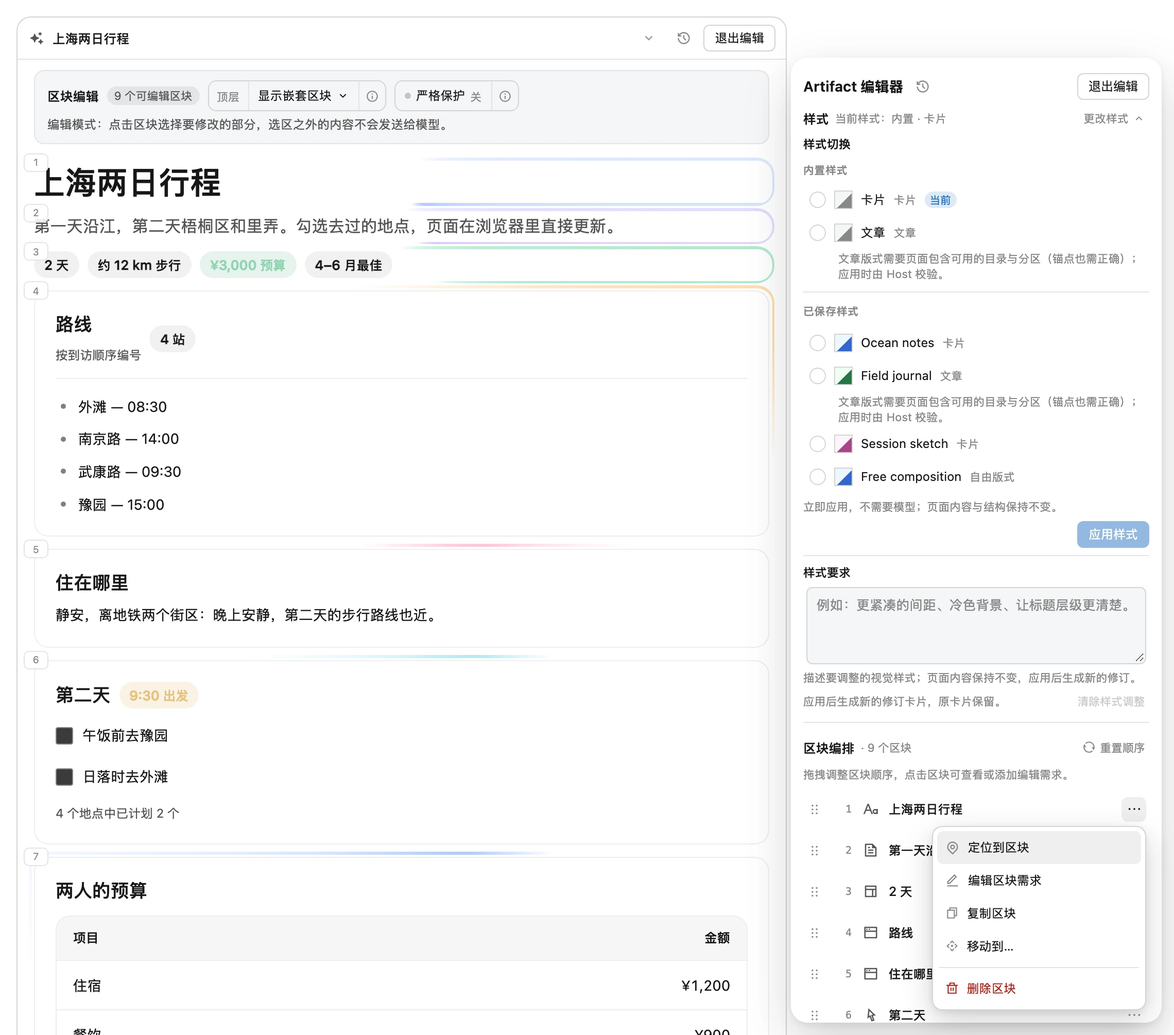
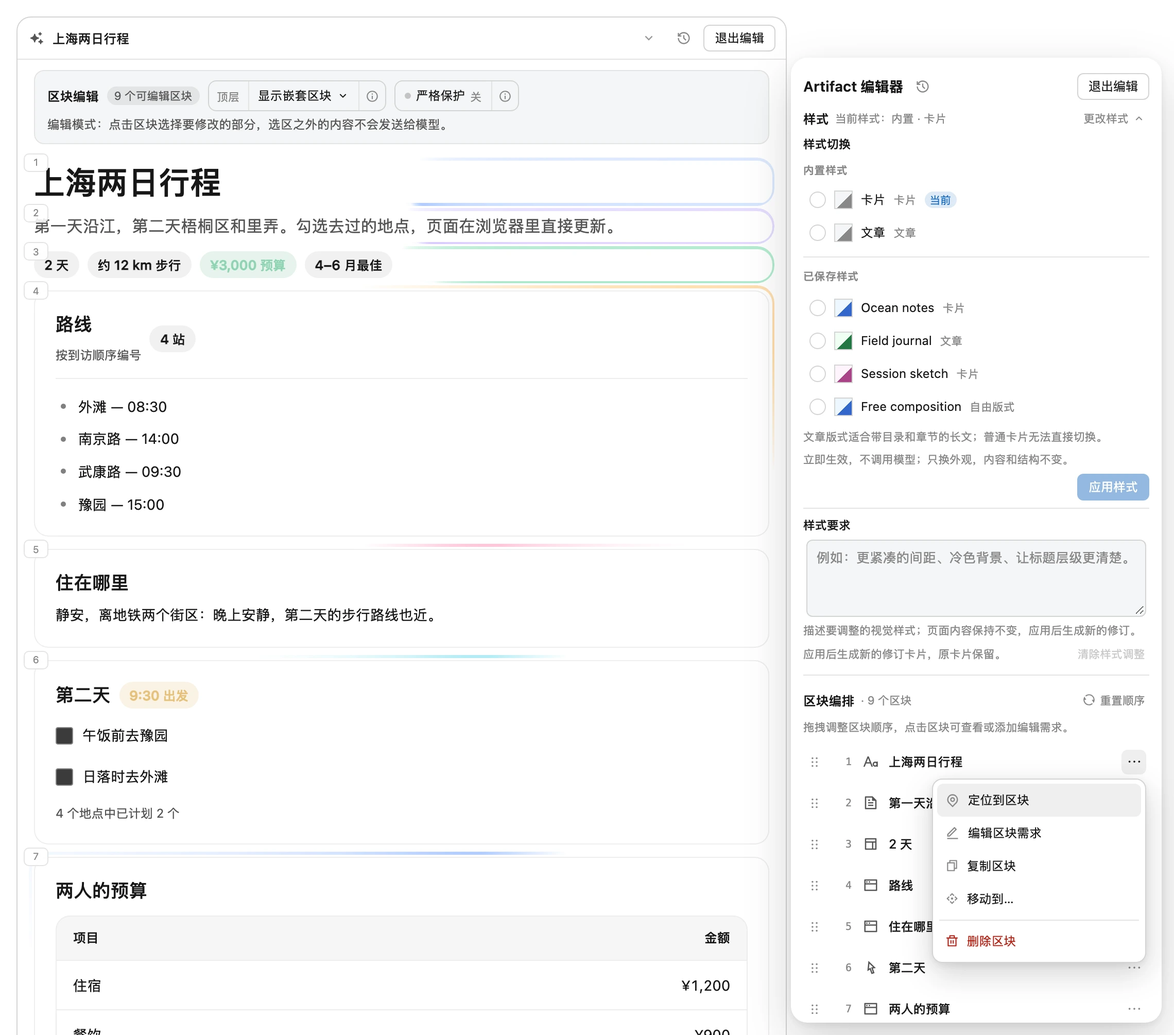
copy(editor): explain style-switch conditions in plain language
Rewrite the Article caveat as "for long-form pages with a table of contents
and sections; a regular card cannot switch to it" and show it once below the
target list instead of under every Article row. Rewrite the zero-model and
temporary-style notes without Host/model jargon. Update the copy-dependent E2E
assertions, recapture the editor screenshots and sync facts (client CSS
221.6 kB; pack 65 files, 6,032,790 / 12,879,500 bytes).

Changed region(s): [[0.6851, 0.2468, 0.9965, 0.9871]]

diff --git a/src/shared/locales.ts b/src/shared/locales.ts
@@ -348,19 +348,19 @@ export const zh = {
   'edit.a11yStyleCleared': '已清除样式调整',
   'edit.styleSwitchGroup': '样式切换',
   'edit.styleBuiltinGroup': '内置样式',
-  'edit.styleSwitchNote': '立即应用，不需要模型；页面内容与结构保持不变。',
+  'edit.styleSwitchNote': '立即生效，不调用模型；只换外观，内容和结构不变。',
   'edit.styleSwitchApply': '应用样式',
   'edit.styleSwitchBusy': '正在切换…',
   'edit.styleSwitchCurrentBadge': '当前',
   'edit.styleSwitchNoChange': '已经是当前样式。',
   'edit.styleSwitchDirty': '请先发送或清除已有的待编辑内容（区块修改、排序、样式说明或整体说明），再切换样式。',
   'edit.styleSwitchMissing': '这个样式已不存在，已尝试刷新样式列表；请重新选择。',
-  'edit.styleSwitchArticle': '文章版式需要页面包含可用的目录与分区（锚点也需正确）；应用时由 Host 校验。',
+  'edit.styleSwitchArticle': '文章版式适合带目录和章节的长文；普通卡片无法直接切换。',
   'edit.styleSwitchStale': '页面已有更新的修订，请关闭编辑后刷新，再切换样式。',
   'edit.styleSwitchMismatch': '页面记录的样式与 Host 不一致（可能已在其他窗口切换），请关闭编辑后刷新，再切换样式。',
   'edit.styleSwitchBlockedByInstruction': '「样式要求」已填写；请先发送或清除它，再直接切换样式。',
   'edit.styleSwitchFailed': '样式切换失败，请重试。',
-  'edit.styleFromTemporary': '当前结果使用临时样式；切换后临时样式会被移除。',
+  'edit.styleFromTemporary': '当前是临时样式；切换后会使用所选样式。',
   'edit.styleSavedGroup': '已保存样式',
   'edit.styleRevision': '样式修订',
   'edit.summaryEdits': '区块编辑需求',
@@ -882,19 +882,19 @@ export const en: Record<keyof typeof zh, string> = {
   'edit.a11yStyleCleared': 'Style change cleared',
   'edit.styleSwitchGroup': 'Switch style',
   'edit.styleBuiltinGroup': 'Built-in styles',
-  'edit.styleSwitchNote': 'Applies immediately without a model turn; page content and structure stay unchanged.',
+  'edit.styleSwitchNote': 'Applies instantly without a model call; only the look changes, not the content or structure.',
   'edit.styleSwitchApply': 'Apply style',
   'edit.styleSwitchBusy': 'Switching…',
   'edit.styleSwitchCurrentBadge': 'Current',
   'edit.styleSwitchNoChange': 'This is already the current style.',
   'edit.styleSwitchDirty': 'Send or clear the pending edits (block changes, arrangement, style instruction or global note) before switching styles.',
   'edit.styleSwitchMissing': 'This style no longer exists; the style list was refreshed. Choose another style.',
-  'edit.styleSwitchArticle': 'The Article layout needs a usable table of contents and sections (with working anchors); the Host verifies it on Apply.',
+  'edit.styleSwitchArticle': 'Article is for long-form pages with a table of contents and sections; a regular card cannot switch to it.',
   'edit.styleSwitchStale': 'A newer revision exists. Close the editor, refresh, then switch styles again.',
   'edit.styleSwitchMismatch': 'The recorded style of this page does not match the Host (it may have changed in another window). Close the editor, refresh, then switch styles again.',
   'edit.styleSwitchBlockedByInstruction': 'A natural-language style instruction is filled in; send or clear it before switching styles directly.',
   'edit.styleSwitchFailed': 'Style switch failed. Try again.',
-  'edit.styleFromTemporary': 'This result uses a temporary style; switching removes the temporary style.',
+  'edit.styleFromTemporary': 'The current style is temporary; switching replaces it with the selected style.',
   'edit.styleSavedGroup': 'Saved styles',
   'edit.styleRevision': 'Style revision',
   'edit.summaryEdits': 'Block change requests',

diff --git a/src/client/artifact-edit/EditPanel.tsx b/src/client/artifact-edit/EditPanel.tsx
@@ -1594,11 +1594,13 @@ export function EditPanel({ t, session, actions, closing = false, onOpenHistory,
                               <span className="dsh-iui-edit-style-target-meta">{layoutLabel}</span>
                               {current ? <span className="dsh-iui-edit-style-current-badge" data-dsh-iui-edit-style-current-badge>{t('edit.styleSwitchCurrentBadge')}</span> : null}
                             </label>
-                            {option.requiresArticleLayout ? <span className="dsh-iui-edit-style-target-hint">{t('edit.styleSwitchArticle')}</span> : null}
                           </div>
                         )
                       })}
                     </div>
+                    {styleTargets.some(option => option.requiresArticleLayout) ? (
+                      <p className="dsh-iui-edit-style-hint" data-dsh-iui-edit-style-article-hint>{t('edit.styleSwitchArticle')}</p>
+                    ) : null}
                     {session.temporaryStyle === undefined ? null : (
                       <p className="dsh-iui-edit-style-note" data-dsh-iui-edit-style-from-temporary>{t('edit.styleFromTemporary')}</p>
                     )}

diff --git a/src/client/artifact-edit/artifact-edit.css b/src/client/artifact-edit/artifact-edit.css
@@ -1085,13 +1085,6 @@
   line-height: 16px;
 }
 
-.dsh-iui-edit-style-target-hint {
-  margin: 0 0 2px 34px;
-  color: var(--dsw-alias-label-tertiary);
-  font-size: 11px;
-  line-height: 15px;
-}
-
 .dsh-iui-edit-style-switch-foot {
   display: flex;
   justify-content: flex-end;

diff --git a/CHANGELOG.md b/CHANGELOG.md
@@ -11,7 +11,7 @@ been published yet.
 
 - **Revision history supports deletion.** Recorded revisions now expose an icon-only trash Delete action (with an accessible label) behind an inline confirmation. The authenticated revision probe route accepts `DELETE` for the same artifact/revision identity; the Host deletes the durable record and its retained program, refuses the initial render, and refuses a revision that is still another revision's base (`409 revision_referenced`). Deleting the current/latest record is allowed and the next newest record becomes latest. The client removes matching local revision cards and refreshes the open history; already-rendered model cards are not removed. No new durable field or history source enum value is introduced.
 
-- **Deterministic style switching in the Artifact editor (zero model).** The style section can now switch a rendered page to a built-in Card/Article layout or a visible saved template without a model turn: the client previews the template theme and Article shell locally, and Apply records a new revision with the same program and the resolved `style`/`styleId` (a result-owned temporary snapshot is dropped; built-in Free is rejected, Free only through a saved free template). The existing authenticated `POST /api/intelligent-ui/artifact-structure` gains a request-level `targetStyle` plus empty `operations` under a single-intent contract; the Host resolves durable targets (`style_missing` for invisible/deleted session templates), reuses the exact Toc/Section+anchor article predicate (moved into `src/host/program-validation.ts`), verifies the claimed base style identity for recorded base revisions (revision ≥ 2; revision 1 has no stored record, 409 `base_style_mismatch`, nothing written), applies the no-op/drop-snapshot rules, and records a `struct_` revision without `editedBlockIds` as the switch signature. No new durable revision fields or history enum values: old clients see a structure revision, new clients label it as a style switch, and an optional `styleSwitch` capability bit hides the picker on old Hosts. Revisions are local cards only (not in transcript replay/export) and template directives do not reflow content — both documented as limits. Verification: Node **621/621** (Host **301**, Client **299**, packaging **21**); browser 9/9, `artifact-edit` **498 checks**; `npm run pack:check` **65 files**, **6,046,933** bytes packed, **12,893,833** bytes unpacked.
+- **Deterministic style switching in the Artifact editor (zero model).** The style section can now switch a rendered page to a built-in Card/Article layout or a visible saved template without a model turn: the client previews the template theme and Article shell locally, and Apply records a new revision with the same program and the resolved `style`/`styleId` (a result-owned temporary snapshot is dropped; built-in Free is rejected, Free only through a saved free template). The existing authenticated `POST /api/intelligent-ui/artifact-structure` gains a request-level `targetStyle` plus empty `operations` under a single-intent contract; the Host resolves durable targets (`style_missing` for invisible/deleted session templates), reuses the exact Toc/Section+anchor article predicate (moved into `src/host/program-validation.ts`), verifies the claimed base style identity for recorded base revisions (revision ≥ 2; revision 1 has no stored record, 409 `base_style_mismatch`, nothing written), applies the no-op/drop-snapshot rules, and records a `struct_` revision without `editedBlockIds` as the switch signature. No new durable revision fields or history enum values: old clients see a structure revision, new clients label it as a style switch, and an optional `styleSwitch` capability bit hides the picker on old Hosts. Revisions are local cards only (not in transcript replay/export) and template directives do not reflow content — both documented as limits. Verification: Node **621/621** (Host **301**, Client **299**, packaging **21**); browser 9/9, `artifact-edit` **498 checks**; `npm run pack:check` **65 files**, **6,032,790** bytes packed, **12,879,500** bytes unpacked.
 - **Natural-language style editing inside the Artifact editor (B1).** The edit canvas gains a style section: a bounded instruction (max 2000 chars) asks the model to restyle the rendered page while keeping its recorded layout (card/article/free never cross). The edit request is now a discriminated `block`/`style` union; the block envelope header and program body stay compatible (the prose is now generated from the shared contract helper, so the whole serialized text is not byte-identical), and the style variant carries no block/arrangement/global fields. A style request is applied with `render_ui` exactly once (`editRequestId` + complete program + recorded style + complete `temporaryStyle`, no `styleId`); the Host accepts the model-approved snapshot only because the pending style request authorizes it, never auto-applies a style request without an explicit selector, rejects a style apply while an on-demand operation is bound (no double result-snapshot write), shares one snapshot validator with on-demand, records the revision with the model snapshot (no `styleId`/`editedBlockIds`), treats an unchanged program+snapshot as a no-op, and adds a preservation warning for a wholesale redesign. The editor hides the legacy footer Adjust style action when the Host advertises the capability and the card is editable (old Hosts or non-editable cards keep the fallback); Save as template stays. Root-cause fix: a revision carrying a `temporaryStyle` now registers its ResultStore snapshot under the revision id before the revision write, so Save as template (and the legacy footer action) work on edited/restored/structure temporary revisions; history infers these without new durable fields, and an optional `styleEdit` projection bit drives the capability without changing revision/history schemas. Verification: see the B1 entry of `docs/verification.md`.
 - **Artifact base registration lifecycle.** Cards rendered before the authoritative program registry existed had no Host state, so structure operations, revision history and restore failed differently (404 `artifact_missing`/`base_missing`, empty history, `source_missing`). A new authenticated `POST /api/intelligent-ui/artifact-base` closes the gap with one write-once registration transition that covers both legacy shapes — the initial anchor (`revisionId === artifactId`; revision 1 is program-only and revision records start at 2) and a recorded anchor (`revisionId` belongs to the artifact, e.g. after the program was LRU-evicted) — validates the program structurally, never overwrites a registered program (the same program is an idempotent no-op with `registered:false`, a different one is 409 `program_conflict`), writes no revision record, caps the body at 1 MiB (a 200k multi-byte program can exceed 300 KiB) and never echoes the program. The structure route now shares one `resolveArtifactBase` boundary (`artifact_missing` vs `base_missing` and their text unchanged), and the restore route keeps its existing program-only fallback unchanged. Accepted deviations are documented instead of hidden: a registered initial revision's `createdAt` becomes the registration time, untouched old cards stay unregistered (no backfill), and evicted non-current programs stay unrecoverable client-side. Verification: see the base-registration entry of `docs/verification.md`; the B2 gate is recorded in the B2 entry. Review follow-ups: a failed authoritative request invalidates the client registration cache so close/reopen genuinely retries (guarded against stale in-flight answers), the program store writes to disk before committing memory so a 500 leaves no phantom registration, an over-limit padded program is rejected as 400 `invalid_program`, and the restore route keeps its pre-existing program-only fallback (no semantics change).
 - **Old cards register automatically on first authoritative use.** The client's single `ensureArtifactBase` entry (single-flight plus a permanent per-artifact/revision cache) fires when the edit canvas opens (new, retained and submitted-reused drafts), before the structure preview and apply POSTs, before loading the revision-history dialog and before restore sends. It posts the rendered program once and caches `present`/`registered`; a 404 from an old Host caches an unsupported capability for that revision (degrade, never probe it again); network/other failures stay retryable and never surface to the user. Old-Host mixed deployments therefore degrade to instruction editing or a re-render instead of blocking. Verification: `test/host/artifact-base.test.mjs` (12 tests), `test/client/artifact-base.test.mjs` (5 tests), 3 new store tests in `test/client/artifact-edit.test.mjs`, and browser scenario 36 (one registration per legacy card, registration before structure requests, old-Host 404 degrade, new preview/props copy).
@@ -85,10 +85,12 @@ been published yet.
 
 ### Fixed
 
+- **Style-switch notes now explain the conditions in plain language.** The Article caveat says it is for long-form pages with a table of contents and sections and is shown once below the target list instead of under every Article row; the zero-model and temporary-style notes no longer use Host/model jargon.
+
 - **The style picker visually separates Built-in styles from Saved styles.** The two groups now carry their own labels and a divider; all options stay in one mutually exclusive radio group, so the grouping is presentation only. Template swatches and layout labels are unchanged.
 
 - **The style-switch target controls are custom-drawn radios.** The B2 picker now draws its own 16px exact-circle ring/dot selected state instead of the native OS radio, while keeping the native input for keyboard and assistive technology; forced-colors keeps a visible checked/focus state. The style color swatches are now square color chips (canvas/accent): removing the border radius lets both theme colors fill all four corners instead of leaving transparent clipped corners. The `background-origin`/`background-clip` declarations now follow the `background` shorthand (which resets them to padding-box), so the gradient covers the border box and no 1px edge seam remains. The radio still resets the shell theme's global superellipse with `corner-shape: round` so it renders a true 16px circle; the editor screenshots were regenerated.
-- **Model tool-call contracts are now single-sourced and Host-coupled, and the third/fourth review rounds' edge paths are fixed.** `styleEditToolContract`/`buildStyleEditToolArgs` and `blockEditToolContract`/`buildBlockEditToolArgs` define the required/optional/forbidden render_ui and edit_ui_blocks arguments; the serializers emit a generated `Tool-call contract:` line, and Host coupling tests execute the helper-produced args (style builtin/saved/temporary; block fragments/order-only, including requestId/styleId selectors) so the envelope cannot drift from the Host. Block prose now escapes `<` in instructions/additions/global prose, and the parser only accepts a header on the next line and skips program-body markers (including a literal `<artifact-program>`). An order-only/global-only edit now reports the recorded title/styleId (including `presentationMeta`), temporary-style additions-only sends are allowed, pending block edits render the artifact's recorded style instead of the session template (no order-only template deadlock), recorded result-owned snapshots are authoritative for content edits, unsaved block drafts block a style switch, and the Article hint/dirty copy is accurate. The fourth-pass review fixes are included too: the route capability is updated from the deferred inject callback with a boolean-safe schema, block titles are escaped in prose, the sent-message summary uses the own-line program fence, and the E2E applies a reachable saved card template. Verification: Node **621/621** (Host **301**, Client **299**, packaging **21**); browser 9/9, `artifact-edit` **498 checks**; pack 65 files, **6,046,933** packed / **12,893,833** unpacked.
+- **Model tool-call contracts are now single-sourced and Host-coupled, and the third/fourth review rounds' edge paths are fixed.** `styleEditToolContract`/`buildStyleEditToolArgs` and `blockEditToolContract`/`buildBlockEditToolArgs` define the required/optional/forbidden render_ui and edit_ui_blocks arguments; the serializers emit a generated `Tool-call contract:` line, and Host coupling tests execute the helper-produced args (style builtin/saved/temporary; block fragments/order-only, including requestId/styleId selectors) so the envelope cannot drift from the Host. Block prose now escapes `<` in instructions/additions/global prose, and the parser only accepts a header on the next line and skips program-body markers (including a literal `<artifact-program>`). An order-only/global-only edit now reports the recorded title/styleId (including `presentationMeta`), temporary-style additions-only sends are allowed, pending block edits render the artifact's recorded style instead of the session template (no order-only template deadlock), recorded result-owned snapshots are authoritative for content edits, unsaved block drafts block a style switch, and the Article hint/dirty copy is accurate. The fourth-pass review fixes are included too: the route capability is updated from the deferred inject callback with a boolean-safe schema, block titles are escaped in prose, the sent-message summary uses the own-line program fence, and the E2E applies a reachable saved card template. Verification: Node **621/621** (Host **301**, Client **299**, packaging **21**); browser 9/9, `artifact-edit` **498 checks**; pack 65 files, **6,032,790** packed / **12,879,500** unpacked.
 
 - **Switching the Intelligent UI scope no longer forces the Display style panel open.** Choosing Off / This session only / Follow global now only sends the scope command; the style panel opens from exactly two explicit entries — the menu's **Display style** row, or clicking the already-active scope entry when it resolves to enabled (an off scope, or follow-global while the global switch is off, simply closes the menu). The style-panel E2E asserts no auto-open after a scope switch and covers both explicit routes.
 

diff --git a/docs/architecture.md b/docs/architecture.md
@@ -272,7 +272,7 @@ projection v6 在 enable/style/pending 之外携带可空 `onDemand`（operation
 - **列表↔画布映射、编辑聚焦与 pending 标记（追加）**：编排/嵌套/请求行 hover 与画布区块双向联动（中性蓝 2px 细框 + 4% 淡底，未选中/未编辑时显示）；根层常显页面顺序索引（嵌套块仅在 hover 时显示）；有 pending 请求的行仍保留页面序号，并在标题后显示带 tooltip 的请求序号 badge；行尾新增「更多」菜单（定位/编辑/复制/移动/删除；定位仍复用 900ms 脉冲），保留点击行主体定位。打开任一区块编辑器时，其余区块被 scrim 压暗，当前区块保留编辑框；Save/Cancel 关闭后 scrim 消失。Save 不再保留大选中框：改为「圆点 + 请求序号」的低调 pending 标记，pending 根层区块的 orbit glow 降速（5.2s）变淡（0.3）；`selection` 数据不变，发送时照常提交。确定性 Apply/结构操作仍按既定行为记录修订并退出编辑（1A 不变）。
 - **状态一致性**：未发送拦截统一用 `hasArtifactEditContent`（包含嵌套排序）；异步结构/属性请求失败只回写当前 session（不会复活已关闭/已提交的编辑器）；嵌套 kind 复用共享映射；快捷面板打开即聚焦、`aria-busy`、`edit.propsUnit`、stale-base/no-change/busy 文案齐全。
 - **限制与预算**：快捷调整只支持 Divider/Spacer 的上述属性；属性修订卡与其他本地修订一样只在 localStorage/触发 Turn 渲染，不参与导出；自定义 CSS 颜色由渲染器 `isSafeCss` 约束，Host 只做保守格式校验；根层 wrapper 已无盒子，依赖 `.dsh-iui-block` 盒子的旧样式/hook 不再存在（测试改为 overlay hit/frame 选择器）。CST 节点预算为 200（此前 60）：长文章页面（如 105 节点的 Solid 2.0 导览）现在可以找到嵌套 Spacer 并使用快捷调整；66 节点 fixture 在浏览器套件中回归。
-- **验证**：Node **621/621**；浏览器 9/9；`artifact-edit` **498 checks**（布局 parity、嵌套 preview、快捷面板、自绘下拉/滑块、滑块即时预览、popover 固定/单位切换不位移、大页面嵌套、确定性请求体、属性修订卡、dirty 拦截、动态回退、apply 禁用/焦点），`nested-edit-renderer` 75；CSS 客户端 221.7 kB；standalone 3.33 MB + 514.4 kB；pack 65 files 6.04 MB / 12.88 MB；harness 截图 `.tmp-report/harness-quick-props.png`、`.tmp-report/harness-pending-block.png`。
+- **验证**：Node **621/621**；浏览器 9/9；`artifact-edit` **498 checks**（布局 parity、嵌套 preview、快捷面板、自绘下拉/滑块、滑块即时预览、popover 固定/单位切换不位移、大页面嵌套、确定性请求体、属性修订卡、dirty 拦截、动态回退、apply 禁用/焦点），`nested-edit-renderer` 75；CSS 客户端 221.6 kB；standalone 3.33 MB + 514.4 kB；pack 65 files 6.04 MB / 12.88 MB；harness 截图 `.tmp-report/harness-quick-props.png`、`.tmp-report/harness-pending-block.png`。
 
 ### Artifact 权威状态生命周期与基础登记（2026-11-07）
 
@@ -440,7 +440,7 @@ free 临时结果或选中的自由模板中，下述页面形态与排版指导
 - 编排行右侧是一个正常的 24px「更多」触发器 `[data-dsh-iui-edit-row-menu]`，不再有覆盖文字的动作组；它打开 portal 菜单，包含定位、编辑、复制、移动到…、删除五项（`data-dsh-iui-edit-locate` / `-structure-edit` / `-structure-duplicate` / `-move` / `-structure-delete`），菜单项有 role=menuitem、方向键/Home/End、Escape、外部点击和焦点返回；触发器在正常 flow 中，标题不会与按钮重叠。
 - 结构性删除是菜单内的持久两态确认：选择「删除区块」后，同一个菜单切换为 `data-dsh-iui-edit-structure-confirm` 的安静 Cancel 与 danger-tinted Delete 两个按钮（该步骤用 dialog 语义），无行红底/大红 pill；确认态只在 Cancel、Delete、外部点击、Escape、其它结构动作、预览打开、busy 或卸载时结束。焦点进入时落到 Cancel，取消/离开时回到行触发器；live region 播报一次。
 - Block 指令 popover 现在先把目标 top 计算为 `preferredTop`，再统一 clamp 到 `[12, viewportHeight - 12 - measuredHeight]`（left 原本已 clamp），所以锚点滚出视口时输入框不会再被裁切到视口外。popover 滚动容器在 `overflow-y: auto` 的 padding box 内保留 4px 底部内边距，输入框获得焦点时的轨道光晕也留出了可见余量。
-- 验证：Node **621/621**（Host 301、Client 299、packaging 21）；浏览器 9/9；`artifact-edit` **498 checks**（菜单/键盘焦点/Tab/forced-colors、输入轨道光晕、圆角/inset、enter/exit 动画名、`data-closing`、删除确认持久 / Cancel / Delete preview、popover 四边 clamp、真实 1180 shell fit）；`nested-edit-renderer` 75；`nested-css-contract` 28/28 + 5/5。构建 host 837.4 kB、client 4.04 MB（js 3.82 / css 221.7）；pack 65 files 6.04 / 12.88 MB。
+- 验证：Node **621/621**（Host 301、Client 299、packaging 21）；浏览器 9/9；`artifact-edit` **498 checks**（菜单/键盘焦点/Tab/forced-colors、输入轨道光晕、圆角/inset、enter/exit 动画名、`data-closing`、删除确认持久 / Cancel / Delete preview、popover 四边 clamp、真实 1180 shell fit）；`nested-edit-renderer` 75；`nested-css-contract` 28/28 + 5/5。构建 host 837.4 kB、client 4.04 MB（js 3.82 / css 221.6）；pack 65 files 6.04 / 12.88 MB。
 - 部署：client 插件改动必须重启 `dsh-web` 后才会加载；页面刷新不足。
 
 ### 图标系统：统一 Remix Icon
@@ -449,7 +449,7 @@ free 临时结果或选中的自由模板中，下述页面形态与排版指导
 - 之前手绘的 stroke 图标（16px viewBox 的铅笔/垃圾桶/复制/移动/拖拽柄/刷新/关闭/类型图标，以及字符 `✎`、`✦`）全部替换；DSH primitives 的 `IconSparkleRegular` / `IconChevronDownOutlineRegular` 也不再用于图标。
 - **例外**：OpenUI 程序内容里的 `Icon("…")` 仍由 `src/lib/components/glyph.tsx` 用 `lucide-react/dynamic.mjs` 惰性解析——那是模型生成的程序数据（历史程序里写的是 lucide 名称），不是插件 chrome，替换会破坏既有程序。
 - 许可：Remix Icon License v1.0（见 `licenses/remix-icon-LICENSE` 与 `NOTICE`）。
-- 验证：Node 621/621、浏览器 9/9、`artifact-edit` 498 checks、`nested-edit-renderer` 75；构建 host 837.4 kB、client 4.04 MB（js 3.82 / css 221.7）；pack 65 files 6.04 / 12.88 MB。
+- 验证：Node 621/621、浏览器 9/9、`artifact-edit` 498 checks、`nested-edit-renderer` 75；构建 host 837.4 kB、client 4.04 MB（js 3.82 / css 221.6）；pack 65 files 6.04 / 12.88 MB。
 
 ### 按 Artifact 的修订历史（用户反馈新增）
 

diff --git a/docs/architecture.en.md b/docs/architecture.en.md
@@ -270,7 +270,7 @@ A rendered page can be revised in place inside its card: an **Edit** entry in th
 - **Panel ↔ canvas mapping, focus mode and pending markers (follow-up)**: arrangement/nested/request rows and canvas blocks hover-sync both ways (neutral 2px blue frame + 4% wash while not selected/edited); root blocks always show their page-order index (nested blocks only on hover); a pending row keeps its page index and adds a request-number badge after the title with a tooltip; each row gains a **More** menu (locate/edit/duplicate/move/delete); locating reuses the 900ms flash and row-body click still locates. Opening any block editor dims the other blocks with a scrim while the edited block keeps its frame; Save/Cancel clears it. Save no longer leaves the big selected frame: the block becomes a quiet pending marker (dot + request number) and its root orbit glow runs slower/dimmer (5.2s, 0.3); the `selection` data is unchanged and still ships on send. Deterministic Apply/structure operations keep the existing record-then-exit behaviour (1A).
 - **State consistency**: the unsent-content guard uses `hasArtifactEditContent` (including nested ordering); async structure/property failures patch the current session only (no resurrecting closed/submitted editors); nested kinds reuse the shared mapping; the quick panel focuses its first control, exposes `aria-busy`, `edit.propsUnit` and stale-base/no-change/busy copy.
 - **Limits and budget**: only the Divider/Spacer properties above are adjustable; property revisions are local-storage cards like the other local revisions and do not participate in export; custom CSS colours are constrained by the renderer's `isSafeCss` and a conservative Host format check; the old `.dsh-iui-block` wrapper boxes no longer exist, so tests use the overlay hit/frame selectors. The CST node budget is 200 (was 60): long article pages such as the 105-node Solid 2.0 guide now expose nested Spacers and quick adjust, and a 66-node fixture regresses this in the browser suite.
-- **Verification**: **621/621** Node tests; 9/9 browser suites; `artifact-edit` **498 checks** (layout parity, nested preview, quick panel, custom dropdowns/slider, slider live preview, pinned popover/stable on unit switch, large-page nesting, deterministic request body, property revision card, dirty refusal, dynamic fallback, apply disabled/focus); `nested-edit-renderer` 75; client CSS 221.7 kB; standalone 3.33 MB + 514.4 kB; pack 65 files 6.04 MB / 12.88 MB; harness screenshots `.tmp-report/harness-quick-props.png` and `.tmp-report/harness-pending-block.png`.
+- **Verification**: **621/621** Node tests; 9/9 browser suites; `artifact-edit` **498 checks** (layout parity, nested preview, quick panel, custom dropdowns/slider, slider live preview, pinned popover/stable on unit switch, large-page nesting, deterministic request body, property revision card, dirty refusal, dynamic fallback, apply disabled/focus); `nested-edit-renderer` 75; client CSS 221.6 kB; standalone 3.33 MB + 514.4 kB; pack 65 files 6.04 MB / 12.88 MB; harness screenshots `.tmp-report/harness-quick-props.png` and `.tmp-report/harness-pending-block.png`.
 
 ### Artifact authoritative-state lifecycle and base registration (2026-11-07)
 
@@ -437,7 +437,7 @@ The skill files also ship with the package as an ordinary directory (`skills/`),
 - Structural delete is a persistent two-step flow inside the same menu: choosing Delete switches the menu to a dialog-semantics `data-dsh-iui-edit-structure-confirm` panel with quiet Cancel and danger-tinted Delete buttons, with no row tint or large pill. The confirmation only ends on Cancel, Delete, outside pointerdown, Escape, another structure action, preview opening, busy or unmount. Focus starts on Cancel and returns to the row trigger on cancel/leave; the live region announces once.
 - The input focus orbit applies only to text inputs, textareas and contenteditable fields; native selects and the quick-adjust dropdown triggers keep their normal menu focus treatment.
 - The block instruction popover now computes a preferred top and clamps it into `[12, viewportHeight - 12 - measuredHeight]` (left was already clamped), so anchors scrolled out of view can no longer place the textarea offscreen. The popover scroll box reserves 4px of bottom padding inside its `overflow-y: auto` padding box, so the focused textarea focus cue also keeps visible room.
-- Verification: 621/621 Node tests (Host 301, Client 299, packaging 21), 9/9 browser suites, `artifact-edit` 498 checks (menu keyboard/focus/Tab/forced-colors, input orbit, rounded/inset geometry, enter/exit animation names, `data-closing`, persistent delete confirmation, Cancel/Delete preview, popover clamps and the real 1180px shell fit), `nested-edit-renderer` 75, nested CSS contract 28/28 + 5/5. Build: host 837.4 kB, client 4.04 MB (js 3.82/CSS 221.7), pack 65 files 6.04/12.88 MB.
+- Verification: 621/621 Node tests (Host 301, Client 299, packaging 21), 9/9 browser suites, `artifact-edit` 498 checks (menu keyboard/focus/Tab/forced-colors, input orbit, rounded/inset geometry, enter/exit animation names, `data-closing`, persistent delete confirmation, Cancel/Delete preview, popover clamps and the real 1180px shell fit), `nested-edit-renderer` 75, nested CSS contract 28/28 + 5/5. Build: host 837.4 kB, client 4.04 MB (js 3.82/CSS 221.6), pack 65 files 6.04/12.88 MB.
 - Deployment: client-plugin changes require restarting `dsh-web`; a page refresh is not enough.
 
 ### Icon system: one Remix Icon family
@@ -446,7 +446,7 @@ The skill files also ship with the package as an ordinary directory (`skills/`),
 - The previous hand-drawn stroke set (16px-viewBox pencil, trash, duplicate, move, drag grip, refresh, close and type glyphs, plus the `✎` and `✦` characters) is gone, and the DSH primitives sparkle/chevron icons are no longer used for icons.
 - **Exception:** `Icon("…")` inside generated OpenUI programs is still resolved lazily by `src/lib/components/glyph.tsx` through `lucide-react/dynamic.mjs`, because those names are program data written by the model (existing programs use lucide names) rather than plugin chrome; switching them would break older programs.
 - Licensing: Remix Icon License v1.0 (see `licenses/remix-icon-LICENSE` and `NOTICE`).
-- Verification: 621/621 Node tests, 9/9 browser suites, `artifact-edit` 498 checks, `nested-edit-renderer` 75; build host 837.4 kB, client 4.04 MB (js 3.82 / CSS 221.7); pack 65 files 6.04 / 12.88 MB.
+- Verification: 621/621 Node tests, 9/9 browser suites, `artifact-edit` 498 checks, `nested-edit-renderer` 75; build host 837.4 kB, client 4.04 MB (js 3.82 / CSS 221.6); pack 65 files 6.04 / 12.88 MB.
 
 ### Per-artifact revision history (user feedback)
 

diff --git a/.agents/skills/sync-iui-docs/references/verification.md b/.agents/skills/sync-iui-docs/references/verification.md
@@ -6,7 +6,7 @@ Run from the repo root. Current expected values are dated 2026-11-08; derive the
 
 | Command | Expected (2026-11-08) | What it proves |
 | --- | --- | --- |
-| `npm run check` | typecheck `tsc --noEmit` (pass; `src/client` excluded because its DSH platform types are not local dependencies); build: `host lib/index.js 837.4 kB`, `client lib/client.js 4.04 MB (js 3.82 MB, css 221.7 kB)`, `lib/standalone.js 3.33 MB + lib/standalone.css 514.4 kB`; tests: 621 total = Host 301 + Client 299 + packaging 21; `check: 42/42` gallery parsed; `render-check: 42/42` plus free composition in light/dark; `contrast-check: colour contract OK`; `i18n-check: localized chrome OK (4 programs)`; `typography-check: 22/22`; `media-row-check: 17/17`; `pressable-select-check: 9/9`; `css-contract-check: 50/50`; `prop-contract-check: 63/63`; `nested-css-contract: 28/28 direct + 5/5 scoped` | Build artifacts, behavior, docs/consistency guards, renderer, i18n, typography and contract claims |
+| `npm run check` | typecheck `tsc --noEmit` (pass; `src/client` excluded because its DSH platform types are not local dependencies); build: `host lib/index.js 837.4 kB`, `client lib/client.js 4.04 MB (js 3.82 MB, css 221.6 kB)`, `lib/standalone.js 3.33 MB + lib/standalone.css 514.4 kB`; tests: 621 total = Host 301 + Client 299 + packaging 21; `check: 42/42` gallery parsed; `render-check: 42/42` plus free composition in light/dark; `contrast-check: colour contract OK`; `i18n-check: localized chrome OK (4 programs)`; `typography-check: 22/22`; `media-row-check: 17/17`; `pressable-select-check: 9/9`; `css-contract-check: 50/50`; `prop-contract-check: 63/63`; `nested-css-contract: 28/28 direct + 5/5 scoped` | Build artifacts, behavior, docs/consistency guards, renderer, i18n, typography and contract claims |
 | `npm run pack:check` | 65 files; tarball ≈ 6.04 MB, unpacked ≈ 12.88 MB (sizes vary with the working tree — derive from the current command output); includes `README.md`, `README.en.md`, `assets/`, `skills/`, `locale/`, `licenses/` (docs and `CHANGELOG.md` excluded) | Packaging claims, shipped-file lists, screenshot assets |
 | `node --test test/packaging/*.test.mjs` | 21 pass (manifest 9 + reference catalog 6 + guardrails 6) | Package, README pair and changelog, screenshots, locale meta, catalog counts, prompt/Skill guardrails, decision policy, the `render_ui` contract rows and the shipped file count |
 | `node --test test/packaging/guardrails.test.mjs` | 6 pass | The prompt and Agent Skill keep the extension checkout read-only while answering, and the enabled-session decision policy stays single-sourced |

diff --git a/docs/verification.md b/docs/verification.md
@@ -539,7 +539,7 @@ Composer「显示样式」面板接入与设置页相同的模板交换入口：
 
 | 命令 / 检查 | 本轮结果 |
 | --- | --- |
-| `npm run check` | PASS；Node **621/621** = Host **301** + Client **299** + packaging **21**；build host **837.4 kB**、client **4.04 MB**（js 3.82 / css 221.7）、standalone 3.33 + 514.4 |
+| `npm run check` | PASS；Node **621/621** = Host **301** + Client **299** + packaging **21**；build host **837.4 kB**、client **4.04 MB**（js 3.82 / css 221.6）、standalone 3.33 + 514.4 |
 | `npm run test:browser` | PASS；9/9 套件；`artifact-edit` **498 checks**、`nested-edit-renderer` 75 |
-| `npm run pack:check` | PASS；**65** 个文件，压缩 **6,046,933** 字节，解包 **12,893,833** 字节 |
+| `npm run pack:check` | PASS；**65** 个文件，压缩 **6,032,790** 字节，解包 **12,879,500** 字节 |
 | 结构 | 双语标题 parity、本地链接/锚点、截图引用、`git diff --check` 全 OK |

diff --git a/docs/verification.en.md b/docs/verification.en.md
@@ -559,7 +559,7 @@ Four structural guards added after the review loop:
 
 | Command / check | Result |
 | --- | --- |
-| `npm run check` | PASS; **621/621** Node tests = Host **301** + Client **299** + packaging **21**; build host **837.4 kB**, client **4.04 MB** (js 3.82 / CSS 221.7), standalone 3.33 + 514.4 |
+| `npm run check` | PASS; **621/621** Node tests = Host **301** + Client **299** + packaging **21**; build host **837.4 kB**, client **4.04 MB** (js 3.82 / CSS 221.6), standalone 3.33 + 514.4 |
 | `npm run test:browser` | PASS; 9/9 suites; `artifact-edit` **498 checks**, `nested-edit-renderer` 75 |
-| `npm run pack:check` | PASS; **65** files, **6,046,933** bytes packed, **12,893,833** bytes unpacked |
+| `npm run pack:check` | PASS; **65** files, **6,032,790** bytes packed, **12,879,500** bytes unpacked |
 | Structure | bilingual heading parity, local links/anchors, screenshot references, `git diff --check` all OK |
